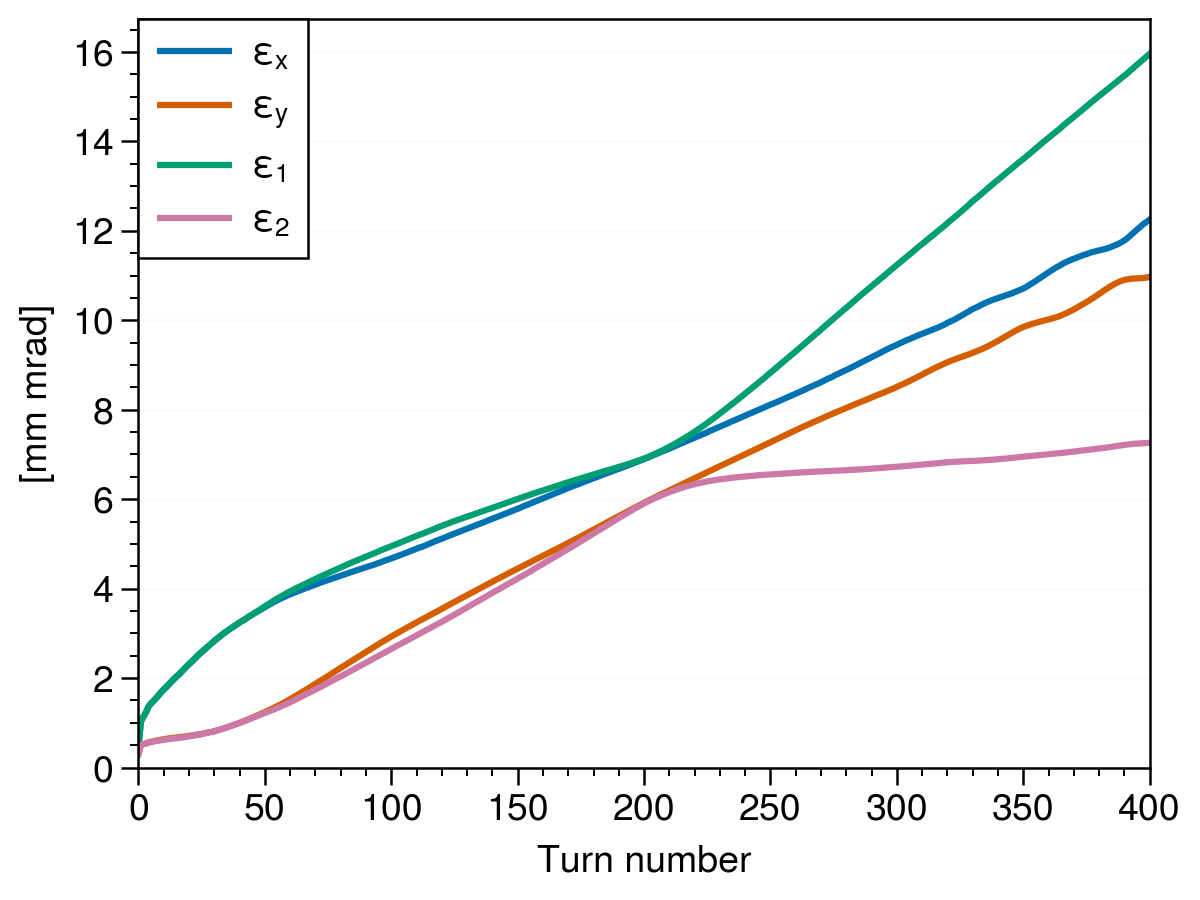
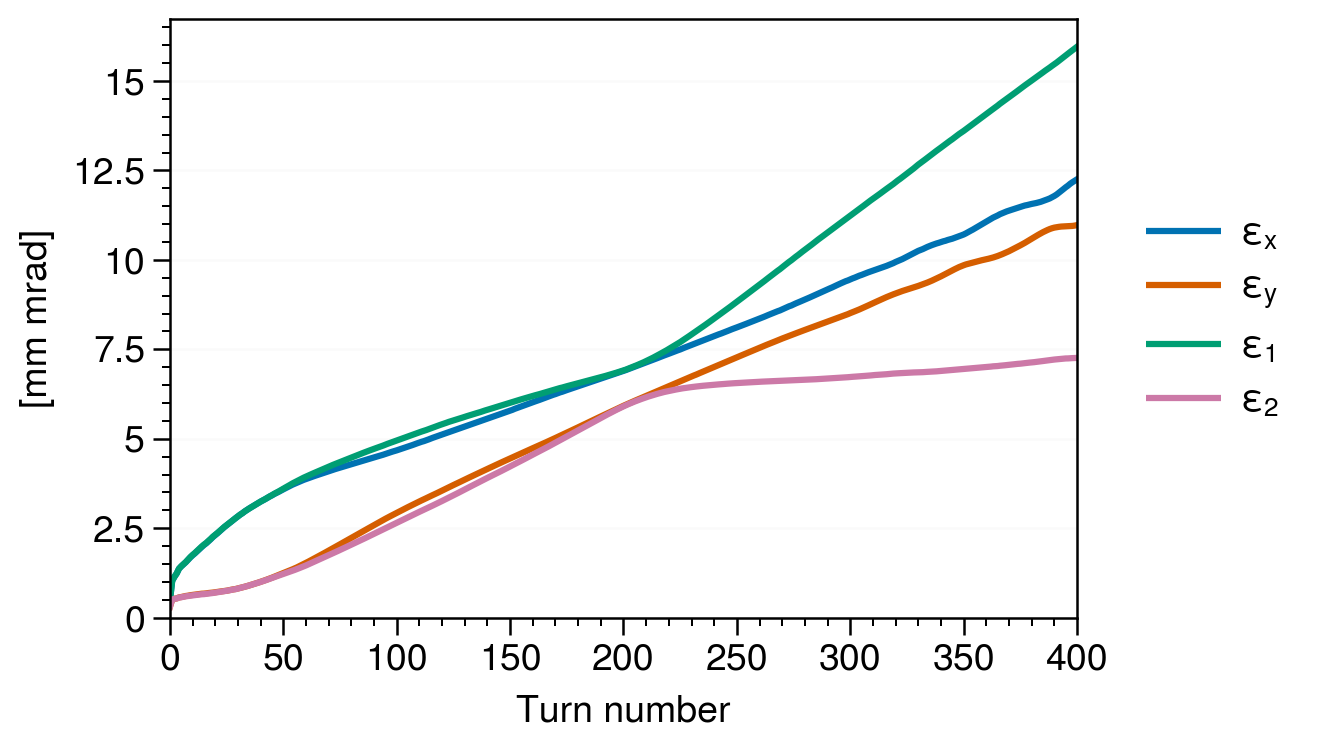
Change plot legend

diff --git a/MainText/chapter5.tex b/MainText/chapter5.tex
@@ -347,7 +347,7 @@ One thing to note is that the zero-current tunes in the simulation were equal at
     \label{fig:exp3_sim_nux6.195_nuy6.18}
 \end{figure}
 %
-The time at which the intrinsic emittances diverge from the apparent emittances has been pushed later in injection, more closely resembling the measurements in Fig.~\ref{fig:exp3_emittances}. 
+The time at which the intrinsic emittances diverge from the apparent emittances has been pushed later in injection, more closely resembling the measurements in Fig.~\ref{fig:exp3_emittances}. [Connect with Holmes' findings that with a solenoid, the distribution is less sensitive to the tune split.]
 
 
 
